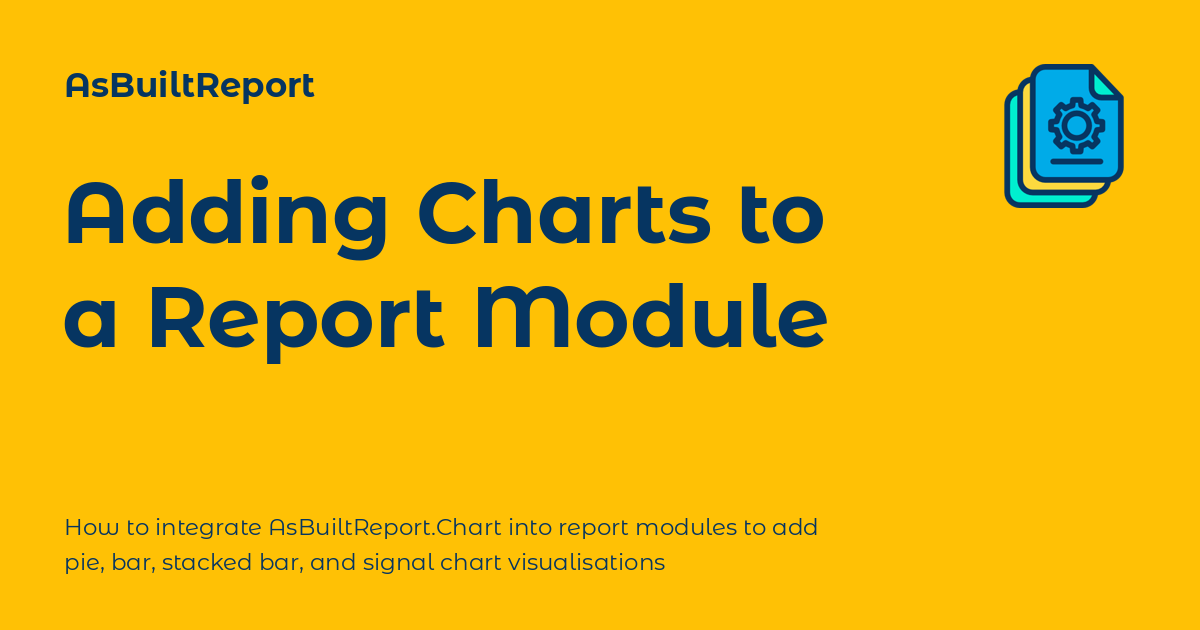
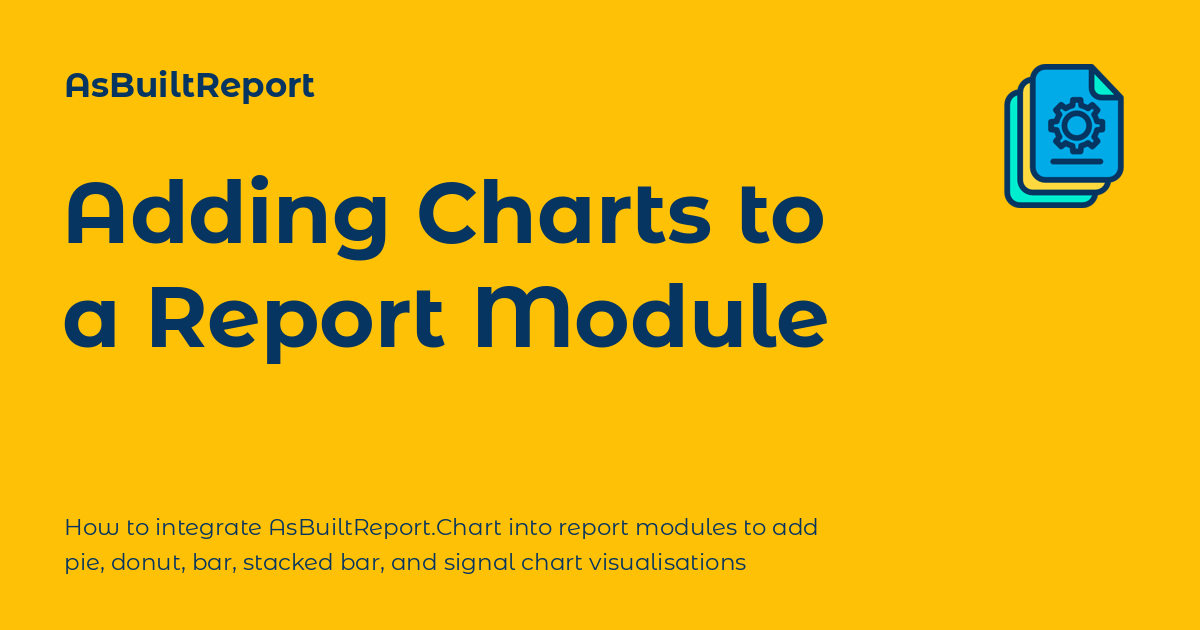
deploy: AsBuiltReport/AsBuiltReport.Project.Website@c720890e4951736ca17e4e6cb7543dcb4971842e

Changed region(s): [[0.0925, 0.8746, 0.6167, 0.9048]]

diff --git a/dev-guide/adding-charts-to-a-report-module/index.html b/dev-guide/adding-charts-to-a-report-module/index.html
@@ -6,7 +6,7 @@
       <meta charset="utf-8">
       <meta name="viewport" content="width=device-width,initial-scale=1">
       
-        <meta name="description" content="How to integrate AsBuiltReport.Chart into report modules to add pie, bar, stacked bar, and signal chart visualisations">
+        <meta name="description" content="How to integrate AsBuiltReport.Chart into report modules to add pie, donut, bar, stacked bar, and signal chart visualisations">
       
       
         <meta name="author" content="Tim Carman">
@@ -79,7 +79,7 @@
   
 <meta property="og:type" content="website" />
 <meta property="og:title" content="Adding Charts to a Report Module - AsBuiltReport" />
-<meta property="og:description" content="How to integrate AsBuiltReport.Chart into report modules to add pie, bar, stacked bar, and signal chart visualisations" />
+<meta property="og:description" content="How to integrate AsBuiltReport.Chart into report modules to add pie, donut, bar, stacked bar, and signal chart visualisations" />
 <meta property="og:image" content="https://www.asbuiltreport.com/assets/images/social/dev-guide/adding-charts-to-a-report-module.png" />
 <meta property="og:image:type" content="image/png" />
 <meta property="og:image:width" content="1200" />
@@ -87,7 +87,7 @@
 <meta property="og:url" content="https://www.asbuiltreport.com/dev-guide/adding-charts-to-a-report-module/" />
 <meta property="twitter:card" content="summary_large_image" />
 <meta property="twitter:title" content="Adding Charts to a Report Module - AsBuiltReport" />
-<meta property="twitter:description" content="How to integrate AsBuiltReport.Chart into report modules to add pie, bar, stacked bar, and signal chart visualisations" />
+<meta property="twitter:description" content="How to integrate AsBuiltReport.Chart into report modules to add pie, donut, bar, stacked bar, and signal chart visualisations" />
 <meta property="twitter:image" content="https://www.asbuiltreport.com/assets/images/social/dev-guide/adding-charts-to-a-report-module.png" />
 </head>
   
@@ -3568,7 +3568,7 @@
 
 
 <h1 id="adding-charts-to-a-report-module">Adding Charts to a Report Module</h1>
-<p>AsBuiltReport.Chart is an optional PowerShell module that adds chart generation capabilities to AsBuiltReport report modules. It provides five chart types — pie, bar, stacked bar, single stacked bar, and signal — and integrates directly with the PScribo document framework used by AsBuiltReport.</p>
+<p>AsBuiltReport.Chart is an optional PowerShell module that adds chart generation capabilities to AsBuiltReport report modules. It provides six chart types — pie, donut, bar, stacked bar, single stacked bar, and signal — and integrates directly with the PScribo document framework used by AsBuiltReport.</p>
 <p>Charts are generated in memory as base64-encoded images and embedded directly into the report output using PScribo's <code>Image</code> cmdlet. No intermediate files are written to disk.</p>
 <div class="admonition info">
 <p class="admonition-title">Prerequisite Reading</p>
@@ -3984,7 +3984,7 @@
 </span><span id="__span-18-33"><a id="__codelineno-18-33" name="__codelineno-18-33" href="#__codelineno-18-33"></a><span class="p">}</span>
 </span></code></pre></div>
 <h2 id="common-parameters-reference">Common Parameters Reference</h2>
-<p>The following parameters are available on all five chart cmdlets:</p>
+<p>The following parameters are available on all chart cmdlets:</p>
 <table>
 <thead>
 <tr>
@@ -4159,7 +4159,7 @@
     <span class="md-icon" title="Last update">
       <svg xmlns="http://www.w3.org/2000/svg" viewBox="0 0 24 24"><path d="M21 13.1c-.1 0-.3.1-.4.2l-1 1 2.1 2.1 1-1c.2-.2.2-.6 0-.8l-1.3-1.3c-.1-.1-.2-.2-.4-.2m-1.9 1.8-6.1 6V23h2.1l6.1-6.1zM12.5 7v5.2l4 2.4-1 1L11 13V7zM11 21.9c-5.1-.5-9-4.8-9-9.9C2 6.5 6.5 2 12 2c5.3 0 9.6 4.1 10 9.3-.3-.1-.6-.2-1-.2s-.7.1-1 .2C19.6 7.2 16.2 4 12 4c-4.4 0-8 3.6-8 8 0 4.1 3.1 7.5 7.1 7.9l-.1.2z"/></svg>
     </span>
-    <span class="git-revision-date-localized-plugin git-revision-date-localized-plugin-date" title="June 8, 2026 15:56:21 UTC">June 8, 2026</span>
+    <span class="git-revision-date-localized-plugin git-revision-date-localized-plugin-date" title="June 8, 2026 18:42:42 UTC">June 8, 2026</span>
   </span>
 
     